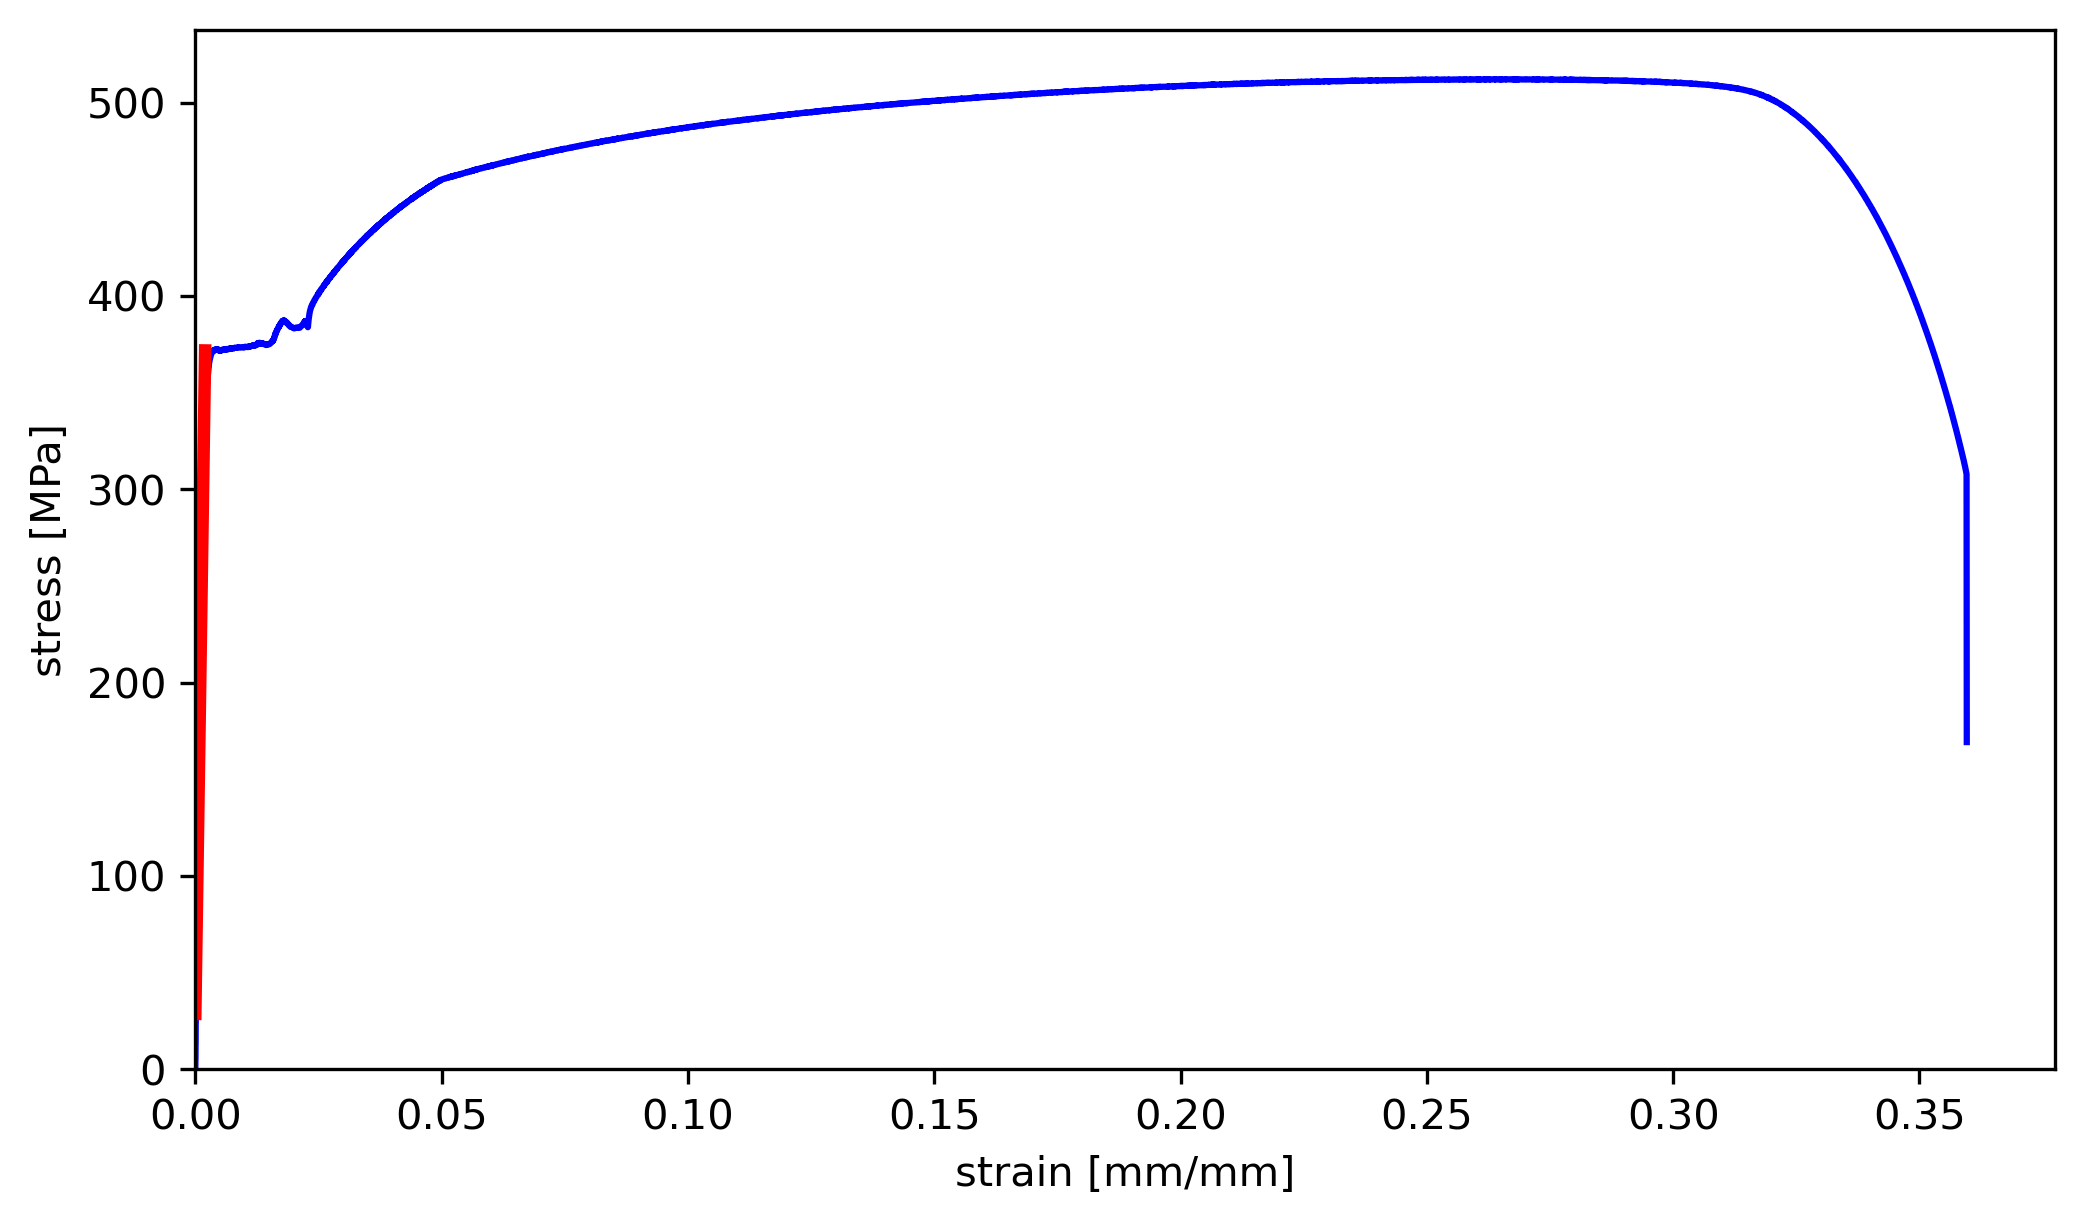
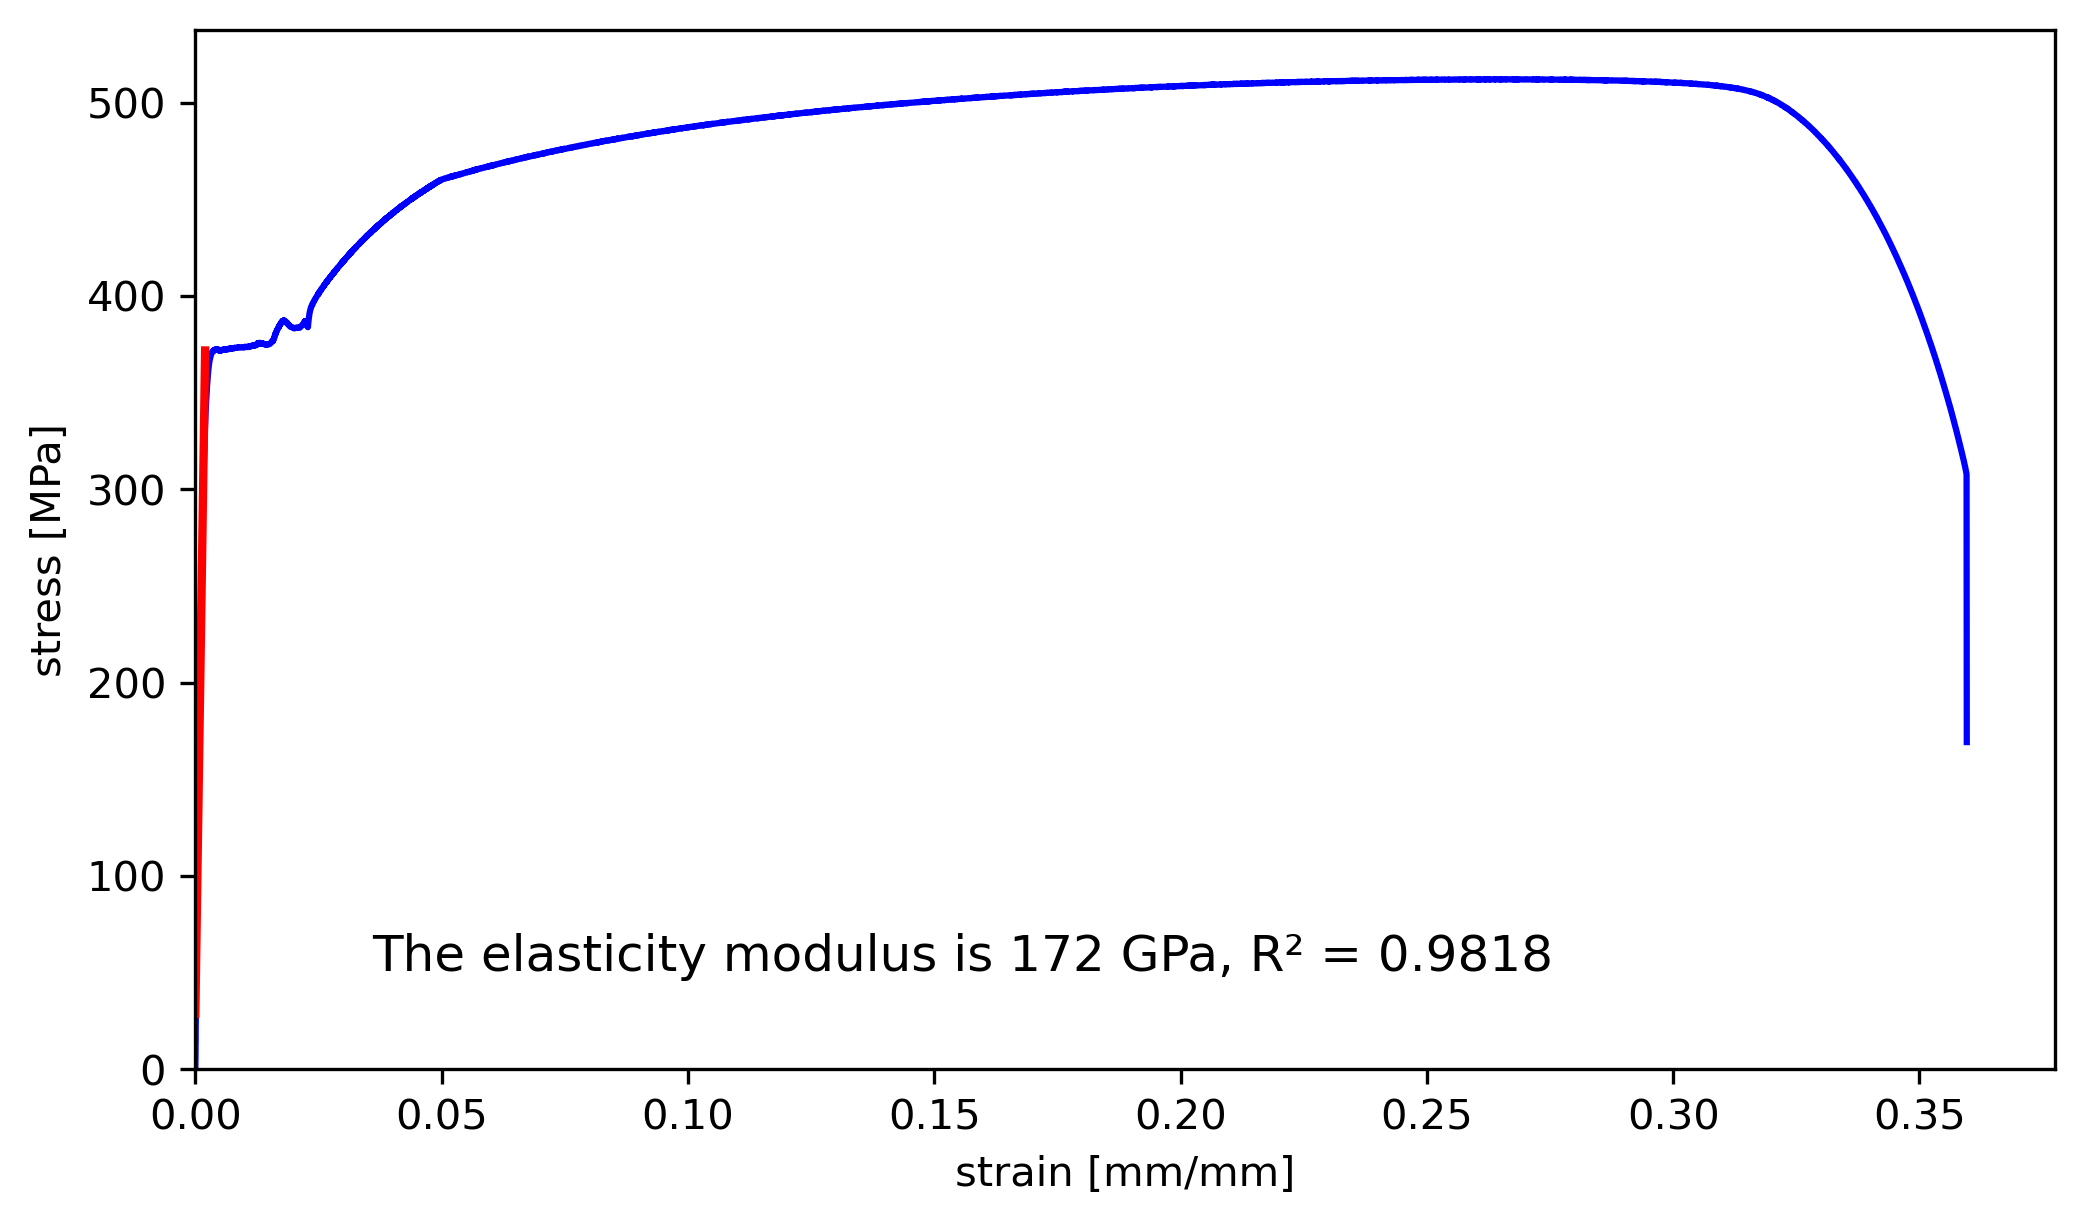
r_squared calculation

Changed region(s): [[0.1871, 0.7445, 0.6235, 0.8065], [0.6547, 0.7445, 0.7482, 0.8065]]

diff --git a/tensile_test.py b/tensile_test.py
@@ -6,39 +6,40 @@ from utils import Hooke
 
 
 def plot_eng_SSC(strain, stress, save = False):
+    plt.figure(figsize=(8, 4.5), facecolor='white')
+    plt.plot(strain, stress, 'b-')
+    plt.xlabel('strain [mm/mm]')
+    plt.ylabel('stress [MPa]')
+    plt.xlim(0, 1.05* max(strain))
+    plt.ylim(0, 1.05*max(stress))  
     
-    if save == True:
-        plt.figure(figsize=(8, 4.5), facecolor='white')
-        plt.plot(strain, stress, 'b-')
-        plt.xlabel('strain [mm/mm]')
-        plt.ylabel('stress [MPa]')
-        plt.xlim(0, 1.05* max(strain))
-        plt.ylim(0, 1.05*max(stress))  
+    if save != False:       
         plt.savefig('output/eng_SSC', dpi=300, bbox_inches='tight',transparent=False)
     else:
-        plt.figure(figsize=(8, 4.5), facecolor='white')
-        plt.plot(strain, stress, 'b-')
-        plt.xlabel('strain [mm/mm]')
-        plt.ylabel('stress [MPa]')
-        plt.xlim(0, 1.05* max(strain))
-        plt.ylim(0, 1.05*max(stress))
         plt.show()
 
 
     
 def young_modulus(strain, stress, save = False):
-
+    
+# taking only the elastic portion of a curve
     x = strain[strain < 0.002]
     y = stress[0:len(x)]    
-
+# performing the linear regression on the elastic part of the data
     init_guess = [100000, 0]
     model = curve_fit(Hooke, x, y, p0 = init_guess)
-
     ans, cov = model
     E, b = ans    
     fit_curve = E * x + b
     E_gpa = round(E / 1000)
+    
+# calculating the R_squared statistic
+    res = y - Hooke(x, *ans)
+    ss_res = np.sum(res ** 2)
+    ss_tot = np.sum((y - np.mean(y)) ** 2)
+    r_squared = 1 - (ss_res/ss_tot)   
 
+# plotting the figure and showing or saving the figure
     plt.figure(figsize = (8,4.5))
     plt.plot(strain, stress, 'b-')
     plt.plot(x, fit_curve, 'r-', linewidth = 2 )
@@ -46,12 +47,12 @@ def young_modulus(strain, stress, save = False):
     plt.ylabel('stress [MPa]')
     plt.xlim(0, 1.05* max(strain))
     plt.ylim(0, 1.05*max(stress))
-    plt.text(0,0, f'The elasticity modulus is {E_gpa} GPa', fontsize=12)  
-    if save == False:     
-        plt.show()
-    else:
-        plt.savefig('output/elasticity', dpi=300, bbox_inches='tight',transparent=False)
+    plt.text(0.1*max(strain), 0.1*max(stress), f'The elasticity modulus is {E_gpa} GPa, R² = {round(r_squared, 4)}', fontsize=12)  
 
-        
-    return E, int(b)
+    if save != False:     
+        plt.savefig('output/elasticity', dpi=300, bbox_inches='tight',transparent=False)
+    else:
+        plt.show()
+    
+    return E, int(b), r_squared
     

diff --git a/test.py b/test.py
@@ -10,5 +10,5 @@ stress = data['(MPa)']
 
 tt.plot_eng_SSC(strain, stress, save = True)
 
-hooke = tt.young_modulus(strain, stress)
+hooke = tt.young_modulus(strain, stress, save = True)
 print(hooke)
